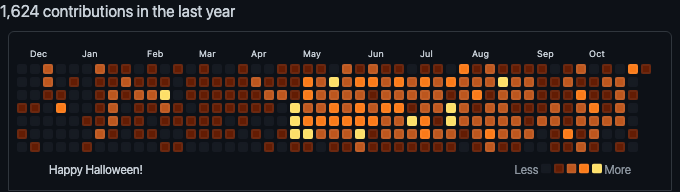
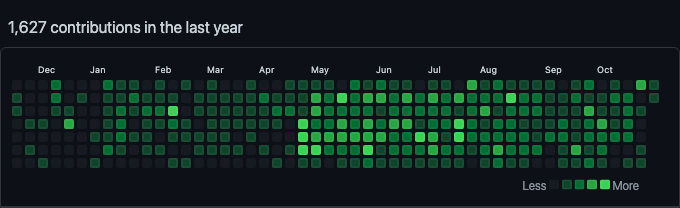
Back to normal from haloween

diff --git a/src/index.ts b/src/index.ts
@@ -15,22 +15,22 @@ const clientV1 = new TwitterV1(credentials);
 
 const GITHUB_USERNAME = "Rohithgilla12";
 
-// const GITHUB_CONTRIBUTION_SELECTOR =
-//   "#js-pjax-container > div.container-xl.px-3.px-md-4.px-lg-5 > div > div.flex-shrink-0.col-12.col-md-9.mb-4.mb-md-0 > div:nth-child(2) > div > div.mt-4.position-relative > div > div.col-12.col-lg-10 > div.js-yearly-contributions > div:nth-child(1)";
-
-const GITHUB_HALOWEEN_SELECTOR =
+const GITHUB_CONTRIBUTION_SELECTOR =
   "#js-pjax-container > div.container-xl.px-3.px-md-4.px-lg-5 > div > div.Layout-main > div:nth-child(2) > div > div.mt-4.position-relative > div > div.col-12.col-lg-10 > div.js-yearly-contributions > div:nth-child(1)";
 
-// const REMOVE_SELECTOR =
-//   "#js-pjax-container > div.container-xl.px-3.px-md-4.px-lg-5 > div > div.flex-shrink-0.col-12.col-md-9.mb-4.mb-md-0 > div:nth-child(2) > div > div.mt-4.position-relative > div > div.col-12.col-lg-10 > div.js-yearly-contributions > div:nth-child(1) > div > div > div > div.float-left";
-const REMOVE_SELECTOR =
-  "#js-pjax-container > div.container-xl.px-3.px-md-4.px-lg-5 > div > div.Layout-main > div:nth-child(2) > div > div.mt-4.position-relative > div > div.col-12.col-lg-10 > div.js-yearly-contributions > div:nth-child(1) > div > div > div > div.float-left > a";
+// const GITHUB_HALOWEEN_SELECTOR =
+//   "#js-pjax-container > div.container-xl.px-3.px-md-4.px-lg-5 > div > div.Layout-main > div:nth-child(2) > div > div.mt-4.position-relative > div > div.col-12.col-lg-10 > div.js-yearly-contributions > div:nth-child(1)";
 
-// const CONTRIBUTION_SELECTOR =
-//   "#js-pjax-container > div.container-xl.px-3.px-md-4.px-lg-5 > div > div.flex-shrink-0.col-12.col-md-9.mb-4.mb-md-0 > div:nth-child(2) > div > div.mt-4.position-relative > div > div.col-12.col-lg-10 > div.js-yearly-contributions > div:nth-child(1) > h2";
+const REMOVE_SELECTOR =
+  "#js-pjax-container > div.container-xl.px-3.px-md-4.px-lg-5 > div > div.Layout-main > div:nth-child(2) > div > div.mt-4.position-relative > div > div.col-12.col-lg-10 > div.js-yearly-contributions > div:nth-child(1) > div > div > div > div.float-left";
+// const REMOVE_SELECTOR =
+//   "#js-pjax-container > div.container-xl.px-3.px-md-4.px-lg-5 > div > div.Layout-main > div:nth-child(2) > div > div.mt-4.position-relative > div > div.col-12.col-lg-10 > div.js-yearly-contributions > div:nth-child(1) > div > div > div > div.float-left > a";
 
 const CONTRIBUTION_SELECTOR =
-  "#js-pjax-container > div.container-xl.px-3.px-md-4.px-lg-5 > div > div.Layout-main > div:nth-child(2) > div > div.mt-4.position-relative > div > div.col-12.col-lg-10 > div.js-yearly-contributions > div:nth-child(1) > div";
+  "#js-pjax-container > div.container-xl.px-3.px-md-4.px-lg-5 > div > div.Layout-main > div:nth-child(2) > div > div.mt-4.position-relative > div > div.col-12.col-lg-10 > div.js-yearly-contributions > div:nth-child(1) > h2";
+
+// const CONTRIBUTION_SELECTOR =
+//   "#js-pjax-container > div.container-xl.px-3.px-md-4.px-lg-5 > div > div.Layout-main > div:nth-child(2) > div > div.mt-4.position-relative > div > div.col-12.col-lg-10 > div.js-yearly-contributions > div:nth-child(1) > div";
 
 const main = async () => {
   try {
@@ -51,7 +51,7 @@ const main = async () => {
         value: "dark",
       },
     ]);
-    await page.waitForSelector(GITHUB_HALOWEEN_SELECTOR);
+    await page.waitForSelector(GITHUB_CONTRIBUTION_SELECTOR);
 
     // puppeteer hide the selected element
     await page.evaluate((selector) => {
@@ -65,7 +65,7 @@ const main = async () => {
       element.style.paddingTop = "16px";
     }, CONTRIBUTION_SELECTOR);
 
-    const element = await page.$(GITHUB_HALOWEEN_SELECTOR);
+    const element = await page.$(GITHUB_CONTRIBUTION_SELECTOR);
     if (element) {
       await element.screenshot({ path: "contributions.png" });
     }
